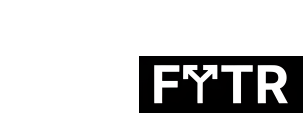
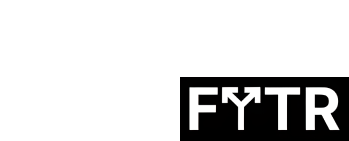
close to externalt esting

Changed region(s): [[0.4455, 0.4779, 1.0, 1.0]]

diff --git a/screens/MainFlow/ViewProfile.js b/screens/MainFlow/ViewProfile.js
@@ -31,6 +31,40 @@ const ViewProfileScreen = ({ navigation, route }) => {
     2: 'in'
   };
 
+  const fightingStyles = {
+    1: 'Boxing',
+    2: 'Brazilian Jiu-Jitsu',
+    3: 'Muay Thai',
+    4: 'Wrestling',
+    5: 'Kickboxing',
+    6: 'Jiu-Jitsu',
+    7: 'Judo',
+    8: 'Karate',
+    9: 'Kung Fu',
+    10: 'Taekwondo',
+  };
+
+  const fightingLevels = {
+    1: 'Professional',
+    2: 'Amateur Competitor',
+    3: 'Advanced',
+    4: 'Intermediate',
+    5: 'Beginner',
+    6: 'Novice',
+  };
+
+  const weightClasses = {
+    1: 'Strawweight',
+    2: 'Flyweight',
+    3: 'Bantamweight',
+    4: 'Featherweight',
+    5: 'Lightweight',
+    6: 'Welterweight',
+    7: 'Middleweight',
+    8: 'Light Heavyweight',
+    9: 'Heavyweight',
+  };
+
   const inchesToFeetAndInches = (inches) => {
     const feet = Math.floor(inches / 12);
     const remainingInches = inches % 12;
@@ -62,22 +96,34 @@ const ViewProfileScreen = ({ navigation, route }) => {
           // This code is for when you navigate from Messaging screen
           targetUserId = matchId;
           profileData = await fetchEditProfileData(matchId);
+
+          console.log("Plz", profileData)
           const loggedInMetrics = await fetchMetrics(userId.userId);
           let additionalData = await fetchAdditionalUserData(matchId);
-          const styleNames = []; // Replace with actual logic to retrieve style names
-  
+          const styleNames = profileData.usersFightStyles.map(styleId => fightingStyles[styleId]);
+          
           // Handle unit conversion for height and weight
           // Your existing unit conversion logic here...
   
+          const weightClassNumber = profileData.weightClass;
+
+// Map the weight class number to its string representation
+const weightClassName = weightClasses[weightClassNumber];
+
           // Merge profile data
           profileData = {
             firstName,
             ...profileData,
             ...additionalData,
-            weightClass: passedWeightClass, // You need to define where this comes from
+            weightClass: weightClassName, // You need to define where this comes from
             style: styleNames.join(', '), // Join style names into a string
             level: passedLevel // You need to define where this comes from
           };
+
+          profileData.level = fightingLevels[profileData.usersFightLevel];
+
+
+          console.log("profileData", profileData)
         } else {
           targetUserId = passedUser.userId;
           profileData = await fetchEditProfileData(targetUserId);
@@ -110,6 +156,7 @@ const ViewProfileScreen = ({ navigation, route }) => {
             style: styleNames.join(', '),
             level: passedLevel
           };
+          console.log("profileData", profileData)
         }
   
         // Fetch and sort images, if targetUserId is set
@@ -207,7 +254,7 @@ const ViewProfileScreen = ({ navigation, route }) => {
         {/* <DividerTitle title={profileDataState ? profileDataState.firstName : 'Loading...'} /> */}
 
 
-        <Text style={settingsStyles.sectionTitle}>Fighter Details</Text>
+        <Text style={settingsStyles.sectionTitle}>Details</Text>
         <View style={{
           width: 371,
           backgroundColor: '#D9D9D9',

diff --git a/screens/MainFlow/EditProfile.js b/screens/MainFlow/EditProfile.js
@@ -492,7 +492,7 @@ const EditProfileScreen = ({ navigation, route }) => {
         />
 
         <SettingSection title="Name" onPress={() => navigation.navigate('SomeScreen')} preference={usersName} />
-        <SettingSection title="Fighting Style(s)"
+        <SettingSection title="Combat Sport(s)"
           onPress={() => navigation.navigate('PreferenceSel', {
             preferences: Object.values(fightingStyles),
             title: 'What are your combat sports',
@@ -504,7 +504,7 @@ const EditProfileScreen = ({ navigation, route }) => {
           // Use the fightingStyle state directly, as it's already a joined string
           showChevron={true}
         />
-        <SettingSection title="Fighting Level"
+        <SettingSection title="Skill Level"
           onPress={() => navigation.navigate('PreferenceSel', {
             preferences: Object.values(fightingLevels),
             title: 'What is your combat sport proficiency',

diff --git a/screens/MainFlow/SettingsScreen.js b/screens/MainFlow/SettingsScreen.js
@@ -317,7 +317,7 @@ const SettingsScreen = ({ navigation }) => {
         <DividerTitle title="Preferences" />
 
         <SettingSection
-          title="Fighting Style Preference(s)"
+          title="Combat Sport Preference(s)"
           onPress={() => navigation.navigate('PreferenceSel', {
             preferences: ['Boxing', 'Brazilian Jiu-Jitsu', 'Muay Thai', 'Wrestling', 'Kickboxing', 'Jiu-Jitsu', 'Judo', 'Karate', 'Kung Fu', 'Taekwondo'],
             title: 'What styles do you want to match with',
@@ -329,7 +329,7 @@ const SettingsScreen = ({ navigation }) => {
           showChevron={true}
         />
         <SettingSection
-          title="Fighting Level Preference(s)"
+          title="Skill Level Preference(s)"
           onPress={() => navigation.navigate('PreferenceSel', {
             preferences: generateLevels(usersFightLevel, 'fightingLevel'),
             title: 'What fighting levels do you want to match with',

diff --git a/screens/Signup/SignUpLocation.js b/screens/Signup/SignUpLocation.js
@@ -51,7 +51,8 @@ let mydate = new Date(parts[2], parts[1] - 1, parts[0]);
               password: route.params.password,
               location: {
                 type: 'Point',
-                coordinates: [position.coords.latitude, position.coords.longitude],
+                coordinates: [37.421998333333335, -122.084], // Forcing people to same location for testing
+                // coordinates: [position.coords.latitude, position.coords.longitude],
               }
             };
             const returnedUserData = await createUser(userData);

diff --git a/screens/Signup/FightingScreen.js b/screens/Signup/FightingScreen.js
@@ -100,7 +100,7 @@ const FightingScreen = ({ navigation, route }) => {
       </View>
       <ScrollView style={{flex: 1}} contentContainerStyle={fightingStyleScreen.list} >
         <Text style={fightingStyleScreen.questionText}>
-          What fighting styles are you interested in? Tick at least one.
+          What combat sports are you interested in? Tick at least one.
         </Text>
         {Object.keys(martialArts).map(renderItem)}
       </ScrollView>

diff --git a/components/styles2.js b/components/styles2.js
@@ -53,9 +53,12 @@ const loginScreen = StyleSheet.create({
     top: 63,
   },
   fytrImg: {
-    position: 'absolute',
-    top: 43,
-    resizeMode: 'contain',
+    // position: 'absolute',
+    // top: 43,
+    // resizeMode: 'contain',
+    // height: "30%",
+     transform: [{scale: 0.9}]
+    // width: "30%"
 },
 
   subtitle: {

diff --git a/screens/LoginScreen.js b/screens/LoginScreen.js
@@ -28,7 +28,7 @@ const LoginScreen = ({ navigation }) => {
       
       {/* Other components */}
       <Image
-        // style={loginScreen.fytrImg}
+        style={loginScreen.fytrImg}
         source={require('../assets/LoginScreen.png')} // Make sure this path is correct
       />
 

diff --git a/screens/Signup/EmailAndNumber.js b/screens/Signup/EmailAndNumber.js
@@ -30,7 +30,6 @@ const EmailAndNumber = ({ navigation, route }) => {
   
     // Make the email lowercase
     const lowerCaseEmail = email.toLowerCase();
-    setEmail(lowerCaseEmail);
   
     // Validate phone number
     if (!phoneNumber || !validatePhoneNumber(phoneNumber)) {
